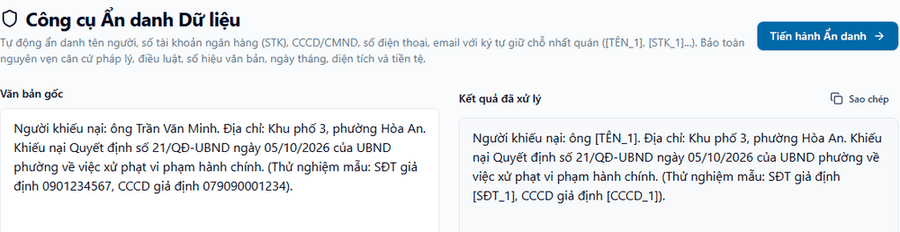
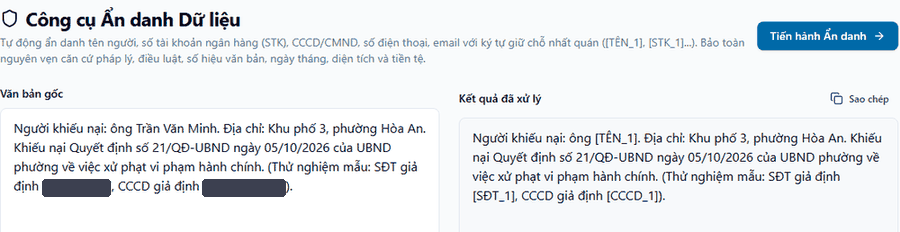
Bản 5.4b-b4: thêm ngày nghỉ 24/11/2026, chặn ngày ngoài khoảng và ngày nghỉ, thu hẹp câu Khóa trích dẫn, che số trong ảnh, sửa hộp Xin biết trước

diff --git a/index.html b/index.html
@@ -83,7 +83,7 @@
 <div class="wrap">
 <div class="sec__head">
 <h2 id="ho-so-h" class="h2">Theo một hồ sơ, từ lúc nhận đến lúc đóng</h2>
-<p class="lede">Ông Minh không đồng ý với một quyết định xử phạt của phường và gửi đơn khiếu nại. Chị Lan là cán bộ văn phòng. Cả hai là nhân vật minh họa, hồ sơ là hồ sơ mẫu.</p>
+<p class="lede">Ông Minh không đồng ý với một quyết định của phường và gửi đơn khiếu nại. Chị Lan là cán bộ văn phòng. Cả hai là nhân vật minh họa, hồ sơ là hồ sơ mẫu.</p>
 </div>
 <ol class="scenes">
 <li class="scene">
@@ -97,21 +97,23 @@
 <span class="scene__no">2</span>
 <div class="scene__story">
 <h3 class="h3">Theo dõi</h3>
-<p>Ô thời hạn đếm 07 ngày làm việc, ghi rõ ngày nào được tính, ngày nào không và vì sao. Mỗi bước có người phụ trách và hiện trong hàng đợi việc của người đó.</p>
+<p>Ô thời hạn đếm 07 ngày làm việc, ghi rõ ngày nào được tính, ngày nào không và vì sao. Mỗi nhiệm vụ có người phụ trách và hiện trong hàng đợi việc của người đó.</p>
+<p class="note"><span class="tag tag--warn">Lưu ý</span> Bộ đếm trong phần mềm chưa nạp ngày nghỉ 24/11/2026 và lịch nghỉ lễ năm 2027, nên hạn đi qua những ngày này đang lệch. Ô đếm thử ở mục dưới đã nạp đủ.</p>
 </div>
 </li>
 <li class="scene">
 <span class="scene__no">3</span>
 <div class="scene__story">
 <h3 class="h3">Trước khi ký</h3>
-<p>Từng trích dẫn trong dự thảo được đưa vào Khóa trích dẫn để đối chiếu với kho văn bản. Dự thảo đi qua kiểm soát, rồi người có thẩm quyền ký.</p>
+<p>Cán bộ kiểm tra căn cứ có thể đưa từng trích dẫn vào Khóa trích dẫn để đối chiếu với kho văn bản. Dự thảo đi qua kiểm soát, rồi người có thẩm quyền ký.</p>
+<p class="note"><span class="tag tag--warn">Lưu ý</span> Khóa trích dẫn hiện là công cụ dùng riêng, chưa gắn vào bước thẩm tra, nên phần mềm chưa bắt buộc kiểm mọi trích dẫn trước khi ký.</p>
 </div>
 </li>
 </ol>
 
 <figure class="shot" aria-labelledby="shot1-cap">
-<a class="shot__link" href="assets/img/han-thu-ly-ho-so-mau.png" data-zoom aria-label="Xem cỡ lớn ảnh khung thời hạn của hồ sơ mẫu"><img src="assets/img/han-thu-ly-ho-so-mau.png" width="900" height="410" fetchpriority="high" alt="Ảnh chụp bản thử nghiệm: khung thời hạn của hồ sơ mẫu. Phần mềm ghi hạn xem xét thụ lý dự kiến là 25/11/2026, nêu căn cứ là khoản 1 Điều 27 Luật Khiếu nại, liệt kê bảy ngày được tính và hai ngày cuối tuần không được tính."></a>
-<figcaption id="shot1-cap">Ảnh chụp bản thử nghiệm ngày 21/11/2026, hồ sơ mẫu, dữ liệu giả định. Phần mềm tự ghi đây là ngày <strong>dự kiến</strong>, chưa phải hạn đã xác lập chính thức, và nói rõ thời hạn giải quyết sau khi thụ lý là giai đoạn khác. Nhấn vào ảnh để xem cỡ lớn.</figcaption>
+<a class="shot__link" href="assets/img/han-thu-ly-ho-so-mau.png" data-zoom aria-label="Xem cỡ lớn ảnh khung thời hạn của hồ sơ mẫu"><img src="assets/img/han-thu-ly-ho-so-mau.png" width="900" height="410" fetchpriority="high" alt="Ảnh chụp bản thử nghiệm: khung thời hạn của hồ sơ mẫu nhận ngày 16/11/2026. Phần mềm ghi hạn xem xét thụ lý dự kiến là 25/11/2026, nêu căn cứ là khoản 1 Điều 27 Luật Khiếu nại, liệt kê bảy ngày được tính và hai ngày cuối tuần không được tính; ngày 24/11/2026 bị tính nhầm là ngày làm việc."></a>
+<figcaption id="shot1-cap">Ảnh chụp bản thử nghiệm ngày 21/11/2026, hồ sơ mẫu, dữ liệu giả định. Phần mềm tự ghi đây là ngày <strong>dự kiến</strong>, chưa phải hạn đã xác lập chính thức, và nói rõ thời hạn giải quyết sau khi thụ lý là giai đoạn khác. <strong>Kết quả trong ảnh còn sai một ngày:</strong> phần mềm chưa nạp ngày nghỉ 24/11/2026 (Ngày Văn hóa Việt Nam) nên ghi 25/11/2026; tính đúng là 26/11/2026. Nhấn vào ảnh để xem cỡ lớn.</figcaption>
 </figure>
 </div>
 </section>
@@ -128,6 +130,7 @@
 <div class="paths__two">
 <article class="path path--new">
 <h3 class="h3">Chưa có: việc mới</h3>
+<p class="small">Trong phần mềm gọi là Luồng 2.</p>
 <p>Ví dụ: phản ánh, kiến nghị về việc dân sinh mới phát sinh.</p>
 <ul>
 <li>Phòng chuyên môn chủ trì về chuyên môn.</li>
@@ -136,6 +139,7 @@
 </article>
 <article class="path path--old">
 <h3 class="h3">Có rồi: việc đã có văn bản trước đó</h3>
+<p class="small">Trong phần mềm gọi là Luồng 1.</p>
 <p>Ví dụ: người dân không đồng ý với văn bản đã ban hành, đề nghị xem xét lại hoặc hủy bỏ.</p>
 <ul>
 <li>Văn phòng chủ trì toàn bộ hồ sơ.</li>
@@ -143,11 +147,11 @@
 </ul>
 </article>
 </div>
-<p id="duong-cap" class="note paths__cap">Mô tả theo quy chế của một phường. Pháp Dẫn hiển thị hai quy trình để cán bộ chọn; phần mềm không tự xác định quy trình.</p>
+<p id="duong-cap" class="note paths__cap">Mô tả theo quy chế của một phường. Theo quy chế ấy, chỉ tính văn bản do chính cơ quan đó ban hành về cùng việc, ví dụ quyết định, thông báo kết quả, thông báo đang giải quyết hoặc không giải quyết; phiếu chuyển, biên bản hay văn bản của cơ quan khác thì không tính. Cán bộ tiếp nhận quyết định theo quy chế của đơn vị. Pháp Dẫn hiển thị hai quy trình để cán bộ chọn; phần mềm không tự xác định quy trình.</p>
 </div>
 
 <div class="gate" aria-label="Thứ tự kiểm soát trước khi ký">
-<p class="gate__h3">Quy chế đặt ba vai riêng: kiểm lần một, kiểm lần hai, ký</p>
+<p class="gate__h3">Theo quy chế của đơn vị: ba vai riêng, kiểm lần một, kiểm lần hai, ký</p>
 <ol class="gate__steps">
 <li><span class="gate__n">Lớp 1</span> Chánh Văn phòng kiểm nội dung</li>
 <li><span class="gate__n">Lớp 2</span> Lãnh đạo phụ trách kiểm lần hai</li>
@@ -167,14 +171,17 @@
 </div>
 
 <div class="dem" data-dem>
+<p class="dem__note small">Ngày nhận là ngày ghi trên phiếu tiếp nhận của cơ quan, không phải ngày bạn gửi. Ô này minh họa cách đếm; hạn thật của một đơn do cơ quan thụ lý xác định.</p>
 <label class="dem__lb" for="ngay-nhan">Ngày nhận đơn</label>
 <input class="dem__in" type="date" id="ngay-nhan" value="2026-11-16" min="2026-11-01" max="2027-03-04">
-<p class="dem__note small">Chọn trong khoảng 01/11/2026 đến 04/3/2027, là khoảng đã đối chiếu lịch nghỉ lễ.</p>
+<p class="dem__note small">Chọn một ngày làm việc trong khoảng 01/11/2026 đến 04/3/2027, là khoảng đã đối chiếu lịch nghỉ lễ. Ngoài khoảng này hoặc chọn ngày nghỉ, trang sẽ báo và không tính.</p>
 <div class="dem__cal" data-cal aria-live="polite"></div>
-<p class="dem__kq" data-kq></p>
+<p class="dem__kq" data-kq aria-live="polite"></p>
 <p class="legend"><span><i class="i-recv"></i> Ngày nhận, không tính</span><span><i class="i-count"></i> Ngày làm việc được tính</span><span><i class="i-skip"></i> Thứ bảy, chủ nhật</span><span><i class="i-off"></i> Nghỉ lễ</span><span><i class="i-due"></i> Ngày cuối của thời hạn</span></p>
-<p class="note">Căn cứ: khoản 1 Điều 27 Luật Khiếu nại số 02/2011/QH13, được sửa đổi, bổ sung bởi Luật số 136/2025/QH15 có hiệu lực từ 01/7/2026. Lịch nghỉ lễ theo Thông báo số 11483/TB-BNV ngày 09/10/2026 của Bộ Nội vụ và Điều 112 Bộ luật Lao động 2019; đã đối chiếu ngày 21/11/2026. Ngày nhận là ngày ghi trên phiếu tiếp nhận của cơ quan; đơn gửi vào ngày nghỉ được ghi nhận vào ngày làm việc kế tiếp.</p>
-<p class="note note--where"><span class="tag tag--plain">Minh họa trên trang web</span> Ô đếm này chạy ngay trong máy của bạn, không gửi dữ liệu đi đâu. <span class="tag tag--ok">Trong phần mềm</span> đã có đếm hạn và liệt kê lý do từng ngày. <span class="tag tag--warn">Đang hoàn thiện</span> lịch nghỉ lễ năm 2027 chưa được nạp vào phần mềm.</p>
+<p class="note">Căn cứ: khoản 1 Điều 27 Luật Khiếu nại số 02/2011/QH13, được sửa đổi, bổ sung bởi Luật số 136/2025/QH15 có hiệu lực từ 01/7/2026. Ngày nghỉ: Điều 112 Bộ luật Lao động số 45/2019/QH14; khoản 1 Điều 2 Nghị quyết số 28/2026/QH16 (Ngày Văn hóa Việt Nam 24/11, năm 2026 nghỉ đúng thứ ba 24/11, không hoán đổi); Thông báo số 11483/TB-BNV ngày 09/10/2026 của Bộ Nội vụ (Tết 2027). Đã đối chiếu ngày 22/11/2026.</p>
+<p class="note note--where"><span class="tag tag--plain">Minh họa trên trang web</span> Ô đếm này là minh họa trên trang web, chạy ngay trong máy của bạn, không gửi dữ liệu đi đâu.</p>
+<p class="note note--where"><span class="tag tag--ok">Trong phần mềm</span> Đã có đếm hạn và liệt kê lý do từng ngày.</p>
+<p class="note note--where"><span class="tag tag--warn">Lưu ý</span> Ngày nghỉ 24/11/2026 và lịch nghỉ lễ năm 2027 chưa được nạp vào phần mềm, hiện chỉ có trong ô đếm này.</p>
 </div>
 </div>
 </section>
@@ -196,15 +203,15 @@
 <p class="tests__h">Thử đoán trước khi xem kết quả</p>
 
 <details class="tcd">
-<summary>Điều 24 Luật Tố cáo 2018 — xử lý ban đầu thông tin tố cáo trong 07 ngày làm việc</summary>
+<summary>Điều 24 Luật Tố cáo số 25/2018/QH14 — xử lý ban đầu thông tin tố cáo trong 07 ngày làm việc</summary>
 <div class="tcd__in">
-<p class="tcd__kq"><span class="tag tag--ok">Đã khóa căn cứ</span></p>
+<p class="tcd__kq"><span class="tag tag--ok">Đã khóa căn cứ (trên kho dữ liệu thử)</span></p>
 <p>Điều này có thật và có trong kho dữ liệu thử, nên phần mềm xác nhận. Điều 24 Luật Tố cáo số 25/2018/QH14 còn cho phép kéo dài nhưng không quá 10 ngày khi phải xác minh ở nhiều nơi.</p>
 </div>
 </details>
 
 <details class="tcd">
-<summary>Điều 328 Bộ luật Dân sự 2015 — đặt cọc</summary>
+<summary>Điều 328 Bộ luật Dân sự số 91/2015/QH13 — đặt cọc</summary>
 <div class="tcd__in">
 <p class="tcd__kq"><span class="tag tag--out">Ngoài kho căn cứ, không xác nhận</span></p>
 <p>Điều này có thật ngoài đời. Nhưng Bộ luật Dân sự không thuộc kho văn bản đang dùng cho việc này, nên phần mềm không đối chiếu được và không xác nhận. Không xác nhận không có nghĩa là điều luật không tồn tại.</p>
@@ -212,7 +219,7 @@
 </details>
 
 <details class="tcd">
-<summary>Điều 300 Luật Đất đai 2024</summary>
+<summary>Điều 300 Luật Đất đai số 31/2024/QH15</summary>
 <div class="tcd__in">
 <p class="tcd__kq"><span class="tag tag--plain">Không tìm thấy điều khoản, không xác nhận</span></p>
 <p>Luật Đất đai số 31/2024/QH15 chỉ có 260 điều, nên không có Điều 300. Văn bản thì có trong kho, còn điều luật thì không. Đây là kiểu sai mà AI hay mắc: ghép một tên luật có thật với một số điều không có.</p>
@@ -220,7 +227,7 @@
 </details>
 
 <details class="tcd">
-<summary>Điều 27 Luật Khiếu nại: thụ lý trong 10 ngày</summary>
+<summary>Điều 27 Luật Khiếu nại số 02/2011/QH13: thụ lý trong 10 ngày</summary>
 <div class="tcd__in">
 <p class="tcd__kq"><span class="tag tag--warn">Nội dung thuộc phiên bản cũ</span></p>
 <p>Điều 27 có thật, nhưng con số 10 ngày là của bản trước. Từ 01/7/2026, Luật số 136/2025/QH15 sửa thành 07 ngày làm việc. Một trích dẫn đúng tên điều vẫn có thể sai nội dung nếu lấy theo bản cũ.</p>
@@ -235,27 +242,27 @@
 <section id="khac-chatbot" class="sec" aria-labelledby="khac-h">
 <div class="wrap">
 <div class="sec__head">
-<h2 id="khac-h" class="h2">Ba điều Pháp Dẫn làm khác một trợ lý AI thông thường</h2>
-<p class="lede">Một trợ lý AI trả lời trôi chảy nhưng không cho biết câu trả lời dựa vào đâu, và không chịu trách nhiệm. Ba điều dưới đây là chỗ khác biệt, và đều chụp được trên bản thử nghiệm.</p>
+<h2 id="khac-h" class="h2">Ba điều Pháp Dẫn làm khác một chatbot hỏi đáp chung</h2>
+<p class="lede">So với một chatbot AI hỏi đáp chung, không gắn với kho văn bản và quy trình của cơ quan. Ba điều dưới đây chụp trên bản thử nghiệm, chạy trên kho dữ liệu thử; kho văn bản chính thức đang được nạp.</p>
 </div>
 
 <ul class="mods">
 <li class="mod">
 <h3 class="h3">Căn cứ bịa ra bị chặn lại</h3>
-<p>AI vẫn có thể nghĩ ra một điều luật không tồn tại. Chỗ khác là ở đây: căn cứ do AI gợi ý mà không có trong kho sẽ bị ghi "chưa xác nhận" và không lọt vào hồ sơ. Khi không tìm được văn bản khớp, phần mềm để trống và ghi rõ nó "tuyệt đối không tự tạo trích dẫn pháp lý giả mạo".</p>
-<figure class="mod__fig"><img src="assets/img/khong-bia-can-cu.png" width="900" height="265" alt="Ảnh chụp bản thử nghiệm: khối Căn cứ pháp luật liên quan báo chưa có văn bản quy phạm pháp luật liên kết trực tiếp, và ghi rằng hệ thống tuyệt đối không tự tạo trích dẫn pháp lý giả mạo."></figure>
+<p>AI vẫn có thể nghĩ ra một điều luật không tồn tại. Chỗ khác là ở đây: khi cán bộ đưa một căn cứ vào Khóa trích dẫn, căn cứ không có trong kho bị ghi "chưa xác nhận" thay vì được coi là đúng. Khi hồ sơ chưa có văn bản khớp, khối căn cứ để trống thay vì tự điền. Công cụ chưa gắn vào bước thẩm tra, nên chưa tự chặn một dự thảo có căn cứ chưa xác nhận.</p>
+<figure class="mod__fig"><img src="assets/img/khong-bia-can-cu.png" width="900" height="265" alt="Ảnh chụp bản thử nghiệm: khối Căn cứ pháp luật liên quan báo chưa có văn bản quy phạm pháp luật liên kết trực tiếp, và một dòng nguyên tắc hiển thị trên giao diện."><figcaption>Ảnh chụp bản thử nghiệm: khối căn cứ để trống khi chưa có văn bản khớp. Dòng chữ trong ảnh là nguyên tắc ghi trên giao diện, không phải kết quả kiểm định.</figcaption></figure>
 <span class="tag tag--ok">Đã có trên bản thử nghiệm</span>
 </li>
 <li class="mod">
 <h3 class="h3">Ghi rõ thứ nào lấy từ đâu</h3>
 <p>Mỗi lần đổi trạng thái hồ sơ đều ghi người đổi, giờ đổi và căn cứ. Mỗi lần kiểm một trích dẫn đều ghi rõ có trong kho hay ngoài kho. Ngoài ra, bảng truy xuất nguồn gốc xếp bốn hạng mục của hồ sơ (thông tin tiếp nhận và thụ lý, tài liệu và hồ sơ đính kèm, đề xuất hành động nghiệp vụ tiếp theo, cơ sở pháp lý liên quan), mỗi hạng mục ghi nguồn, người ghi, thời điểm và tính chất pháp lý.</p>
-<figure class="mod__fig"><img src="assets/img/truy-xuat-nguon-goc.png" width="900" height="337" alt="Ảnh chụp bản thử nghiệm: bảng truy xuất nguồn gốc dữ liệu, mỗi dòng ghi hạng mục thông tin, nguồn dữ liệu thực tế, chủ thể ghi nhận, thời điểm và tính chất pháp lý."></figure>
+<figure class="mod__fig"><img src="assets/img/truy-xuat-nguon-goc.png" width="900" height="337" alt="Ảnh chụp bản thử nghiệm: bảng truy xuất nguồn gốc dữ liệu, mỗi dòng ghi hạng mục thông tin, nguồn dữ liệu thực tế, chủ thể ghi nhận, thời điểm và tính chất pháp lý."><figcaption>Ảnh chụp bản thử nghiệm: bảng truy xuất nguồn gốc. Một số ô bị giao diện rút gọn bằng dấu ba chấm.</figcaption></figure>
 <span class="tag tag--ok">Đã có trên bản thử nghiệm</span>
 </li>
 <li class="mod">
 <h3 class="h3">Máy không tự quyết thay người</h3>
 <p>Phần mềm gợi ý việc tiếp theo và nói rõ gợi ý ấy dựa vào căn cứ nào, nhưng ghi thẳng là "hệ thống không tự ý chuyển trạng thái hoặc đưa ra kết luận pháp lý tự động". Trợ lý AI chỉ hỗ trợ tóm tắt và gợi ý phân loại, không có giá trị pháp lý tự động; cán bộ thụ lý chịu trách nhiệm về kết quả.</p>
-<figure class="mod__fig"><img src="assets/img/hanh-dong-tat-dinh.png" width="900" height="269" alt="Ảnh chụp bản thử nghiệm: khối hành động nghiệp vụ tiếp theo, mỗi gợi ý kèm một dòng căn cứ đề xuất, và câu hệ thống không tự ý chuyển trạng thái hoặc đưa ra kết luận pháp lý tự động."></figure>
+<figure class="mod__fig"><img src="assets/img/hanh-dong-tat-dinh.png" width="900" height="269" alt="Ảnh chụp bản thử nghiệm: khối hành động nghiệp vụ tiếp theo, mỗi gợi ý kèm một dòng căn cứ đề xuất, và câu hệ thống không tự ý chuyển trạng thái hoặc đưa ra kết luận pháp lý tự động."><figcaption>Ảnh chụp bản thử nghiệm: gợi ý việc tiếp theo, mỗi gợi ý kèm căn cứ đề xuất.</figcaption></figure>
 <span class="tag tag--ok">Đã có trên bản thử nghiệm</span>
 </li>
 </ul>
@@ -278,12 +285,12 @@
 
 <ul class="rows">
 <li class="row">
-<h3 class="h3">Đếm hạn và nêu lý do từng ngày <span class="tag tag--ok">Đã có</span></h3>
-<p>Đếm 07 ngày làm việc, liệt kê ngày được tính và ngày không tính kèm lý do, và tự kiểm lại kết quả. Lịch nghỉ lễ năm 2027 chưa được nạp.</p>
+<h3 class="h3">Đếm hạn và nêu lý do từng ngày <span class="tag tag--warn">Đang hoàn thiện</span></h3>
+<p>Đếm 07 ngày làm việc, liệt kê ngày được tính và ngày không tính kèm lý do, và tự kiểm lại kết quả. Chưa nạp ngày nghỉ 24/11/2026 và lịch nghỉ lễ năm 2027, nên hạn đi qua những ngày này đang lệch.</p>
 </li>
 <li class="row">
 <h3 class="h3">Hai quy trình xử lý đơn <span class="tag tag--ok">Đã có</span></h3>
-<p>Hồ sơ mẫu đã đi trọn quy trình thứ hai, từ trích lục hồ sơ cũ đến đóng hồ sơ. Mỗi bước có vai trò phụ trách riêng.</p>
+<p>Hồ sơ mẫu đã đi trọn quy trình cho việc đã có văn bản trước đó (phần mềm gọi là Luồng 1), từ trích lục hồ sơ cũ đến đóng hồ sơ. Mỗi bước có vai trò phụ trách riêng.</p>
 </li>
 <li class="row">
 <h3 class="h3">Hàng đợi việc theo vai trò <span class="tag tag--ok">Đã có</span></h3>
@@ -314,10 +321,10 @@
 <details class="more">
 <summary>Xem ảnh chụp bốn màn hình</summary>
 <div class="more__in">
-<figure class="shot"><img src="assets/img/che-thong-tin.png" width="900" height="232" alt="Ảnh chụp bản thử nghiệm: công cụ che thông tin, cột trái là văn bản gốc có tên và số căn cước, cột phải là kết quả đã thay bằng ký hiệu."><figcaption>Che thông tin cá nhân trước khi đưa nội dung cho AI đọc.</figcaption></figure>
-<figure class="shot"><img src="assets/img/lich-su-ho-so.png" width="772" height="690" alt="Ảnh chụp bản thử nghiệm: lịch sử xử lý của hồ sơ mẫu, mỗi dòng ghi việc đã làm, thời điểm và người làm; dòng đổi trạng thái ghi thêm căn cứ."><figcaption>Mỗi lần đổi trạng thái ghi người, giờ và căn cứ.</figcaption></figure>
-<figure class="shot"><img src="assets/img/hang-doi-viec.png" width="900" height="490" alt="Ảnh chụp bản thử nghiệm: hàng đợi nhiệm vụ, một dòng việc kèm bước xử lý, quy trình, vai trò phân công, người nhận và trạng thái."><figcaption>Hàng đợi việc của một cán bộ.</figcaption></figure>
-<figure class="shot"><img src="assets/img/quy-trinh-hoan-tat.png" width="900" height="482" alt="Ảnh chụp bản thử nghiệm: màn hình quy trình của hồ sơ mẫu ở trạng thái hoàn tất, kèm danh sách các bước đã đi qua."><figcaption>Hồ sơ mẫu sau khi đi hết quy trình.</figcaption></figure>
+<figure class="shot"><img src="assets/img/che-thong-tin.png" width="900" height="232" alt="Ảnh chụp bản thử nghiệm: công cụ che thông tin, cột trái là văn bản gốc, cột phải là kết quả đã thay tên, số điện thoại, số căn cước bằng ký hiệu; địa chỉ chưa được che."><figcaption>Che thông tin cá nhân trước khi đưa nội dung cho AI đọc. Tên, số điện thoại và số căn cước trong ảnh là dữ liệu giả định; trang web đã che thêm hai dãy số ở cột trái. Địa chỉ chưa được phần mềm che.</figcaption></figure>
+<figure class="shot"><img src="assets/img/lich-su-ho-so.png" width="772" height="690" alt="Ảnh chụp bản thử nghiệm: lịch sử xử lý của hồ sơ mẫu, mỗi dòng ghi việc đã làm, thời điểm và người làm; dòng đổi trạng thái ghi thêm căn cứ."><figcaption>Dòng đổi trạng thái ghi người, giờ và căn cứ; các dòng thêm ghi chú không hiện nội dung ghi chú.</figcaption></figure>
+<figure class="shot"><img src="assets/img/hang-doi-viec.png" width="900" height="490" alt="Ảnh chụp bản thử nghiệm: hàng đợi nhiệm vụ, một dòng việc kèm bước xử lý, quy trình, vai trò phân công, người nhận và trạng thái."><figcaption>Hàng đợi việc của một cán bộ. Bảng nhiều cột, nên mở ảnh cỡ lớn để đọc.</figcaption></figure>
+<figure class="shot"><img src="assets/img/quy-trinh-hoan-tat.png" width="900" height="482" alt="Ảnh chụp bản thử nghiệm: màn hình quy trình của hồ sơ mẫu ở trạng thái hoàn tất, kèm danh sách các bước đã đi qua."><figcaption>Hồ sơ mẫu sau khi đi hết quy trình Luồng 1. Ảnh chỉ thấy phần đầu danh sách bước.</figcaption></figure>
 <p class="note">Bốn ảnh chụp bản thử nghiệm ngày 21/11/2026, dữ liệu giả định, đã che tên tài khoản.</p>
 </div>
 </details>
@@ -337,7 +344,7 @@
 </div>
 <div>
 <dt>Hạn thụ lý khiếu nại còn 07 ngày làm việc</dt>
-<dd>Luật cũ quy định 10 ngày; luật mới quy định 07 ngày làm việc, áp dụng từ 01/7/2026.</dd>
+<dd>Luật cũ quy định 10 ngày (ngày lịch); luật mới quy định 07 ngày làm việc, áp dụng từ 01/7/2026.</dd>
 <dd class="facts__src">Khoản 1 Điều 27 Luật Khiếu nại số 02/2011/QH13, sửa đổi, bổ sung bởi Luật số 136/2025/QH15.</dd>
 </div>
 <div>
@@ -358,7 +365,7 @@
 <div class="wrap proof">
 <div class="proof__text">
 <h2 id="bc-h" class="h2">Số liệu ghi nhận tại một địa phương</h2>
-<p class="lede">Từ 06/4/2026, một phường chia đơn thành hai quy trình như trên. Tỉ lệ đơn trễ hạn hoặc còn tồn đọng giảm.</p>
+<p class="lede">Từ 06/4/2026, một phường chia đơn thành hai quy trình như trên, khi chưa dùng phần mềm. Phường ghi nhận hai con số dưới đây; đây không phải phép đo hiệu quả của Pháp Dẫn.</p>
 </div>
 <div class="proof__figs">
 <dl class="proof__nums">
@@ -407,7 +414,7 @@
 </details>
 <details>
 <summary>Phần mềm đã dùng cho hồ sơ thật chưa?</summary>
-<p>Chưa. Đang chạy thử với hồ sơ mẫu và dữ liệu giả định. Chính phần mềm cũng hiện dòng cảnh báo chỉ dùng dữ liệu giả hoặc đã ẩn danh.</p>
+<p>Chưa. Đang chạy thử với hồ sơ mẫu và dữ liệu giả định.</p>
 </details>
 <details>
 <summary>Khóa trích dẫn khác gì một công cụ tìm kiếm?</summary>
@@ -419,11 +426,11 @@
 </details>
 <details>
 <summary>Dữ liệu của đơn vị có bị trộn lẫn không?</summary>
-<p>Dữ liệu tách theo đơn vị, quyền xem và sửa theo vai trò. Thông tin cá nhân được che trước khi đưa cho AI đọc; phần che địa chỉ đang được bổ sung.</p>
+<p>Theo thiết kế, dữ liệu tách theo đơn vị, quyền xem và sửa theo vai trò. Bộ che thông tin che được tên, số điện thoại, số căn cước, email và số tài khoản trước khi đưa cho AI đọc; chưa che địa chỉ. Hiện một tài khoản vẫn bấm được cả bước duyệt lẫn bước ban hành; việc chặn này đang được làm.</p>
 </details>
 <details>
 <summary>Muốn xem thử thì làm thế nào?</summary>
-<p>Gửi thư qua trang Liên hệ, nêu hai hoặc ba khung giờ thuận tiện. Buổi xem thử khoảng 20 phút, chạy trên hồ sơ mẫu.</p>
+<p>Gửi thư qua <a href="lien-he.html">trang Liên hệ</a>, nêu hai hoặc ba khung giờ thuận tiện. Buổi xem thử khoảng 20 phút, chạy trên hồ sơ mẫu.</p>
 </details>
 </div>
 </div>
@@ -433,7 +440,7 @@
 <div class="wrap cta">
 <div class="cta__text">
 <h2 id="pilot-h" class="h2">Muốn xem thử?</h2>
-<p class="lede">Hai mươi phút, chạy trên hồ sơ mẫu, có thể xem trên máy tính hoặc điện thoại.</p>
+<p class="lede">Hai mươi phút, chạy trên hồ sơ mẫu, có thể xem trên máy tính hoặc điện thoại. Buổi xem thử dành cho cán bộ xã, phường; không phải nơi nộp hay hỏi về đơn.</p>
 </div>
 <div class="biet">
 <p class="biet__h">Xin biết trước</p>
@@ -486,8 +493,8 @@ document.addEventListener('keydown',function(e){if(e.key==='Escape'&&m.open){m.o
 var w=document.querySelector('[data-dem]');if(!w)return;
 var inp=w.querySelector('.dem__in'),cal=w.querySelector('[data-cal]'),kq=w.querySelector('[data-kq]');
 if(!inp||!cal||!kq)return;
-/* Ngày nghỉ lễ theo Thông báo 11483/TB-BNV ngày 09/10/2026; khoảng đã đối chiếu: 01/11/2026 - 15/03/2027 */
-var LE={'2027-01-01':'Tết Dương lịch','2027-02-04':'Tết Âm lịch','2027-02-05':'Tết Âm lịch','2027-02-06':'Tết Âm lịch','2027-02-07':'Tết Âm lịch','2027-02-08':'Tết Âm lịch','2027-02-09':'Tết Âm lịch','2027-02-10':'Tết Âm lịch'};
+/* Ngày nghỉ: NQ 28/2026/QH16 (24/11/2026, không hoán đổi); TB 11483/TB-BNV ngày 09/10/2026 (Tết 2027); khoảng đã đối chiếu: 01/11/2026 - 15/03/2027 */
+var LE={'2026-11-24':'Ngày Văn hóa Việt Nam','2027-01-01':'Tết Dương lịch','2027-02-04':'Tết Âm lịch','2027-02-05':'Tết Âm lịch','2027-02-06':'Tết Âm lịch','2027-02-07':'Tết Âm lịch','2027-02-08':'Tết Âm lịch','2027-02-09':'Tết Âm lịch','2027-02-10':'Tết Âm lịch'};
 var THU=['chủ nhật','thứ hai','thứ ba','thứ tư','thứ năm','thứ sáu','thứ bảy'];
 function p(s){var a=s.split('-');return new Date(Date.UTC(+a[0],+a[1]-1,+a[2]));}
 function k(d){var m=d.getUTCMonth()+1,n=d.getUTCDate();return d.getUTCFullYear()+'-'+(m<10?'0':'')+m+'-'+(n<10?'0':'')+n;}
@@ -498,7 +505,8 @@ function ve(){
  cal.textContent='';kq.textContent='';
  var s=inp.value;if(!s||!/^\d{4}-\d{2}-\d{2}$/.test(s))return;
  var g=p(s);if(isNaN(g.getTime()))return;
- if(inp.min&&s<inp.min){g=p(inp.min);}if(inp.max&&s>inp.max){g=p(inp.max);}
+ if((inp.min&&s<inp.min)||(inp.max&&s>inp.max)){kq.textContent='Ngày '+dmy(g)+' nằm ngoài khoảng đã đối chiếu lịch nghỉ lễ (01/11/2026 đến 04/03/2027). Trang không tính hạn cho ngày này.';return;}
+ if(nghi(g)){kq.textContent='Ngày '+dmy(g)+' là '+(LE[k(g)]?'ngày nghỉ lễ ('+LE[k(g)]+')':THU[g.getUTCDay()])+', không phải ngày làm việc. Hãy chọn đúng ngày ghi trên phiếu tiếp nhận của cơ quan; trang không tự đổi sang ngày khác.';return;}
  var r=new Date(g);
  var ds=[{d:new Date(r),t:'recv',nh:'Ngày nhận'}],cur=new Date(r),dem=0;
  while(dem<7){cur=them(cur,1);

diff --git a/chinh-sach-du-lieu.html b/chinh-sach-du-lieu.html
@@ -126,8 +126,8 @@ document.addEventListener('keydown',function(e){if(e.key==='Escape'&&m.open){m.o
 var w=document.querySelector('[data-dem]');if(!w)return;
 var inp=w.querySelector('.dem__in'),cal=w.querySelector('[data-cal]'),kq=w.querySelector('[data-kq]');
 if(!inp||!cal||!kq)return;
-/* Ngày nghỉ lễ theo Thông báo 11483/TB-BNV ngày 09/10/2026; khoảng đã đối chiếu: 01/11/2026 - 15/03/2027 */
-var LE={'2027-01-01':'Tết Dương lịch','2027-02-04':'Tết Âm lịch','2027-02-05':'Tết Âm lịch','2027-02-06':'Tết Âm lịch','2027-02-07':'Tết Âm lịch','2027-02-08':'Tết Âm lịch','2027-02-09':'Tết Âm lịch','2027-02-10':'Tết Âm lịch'};
+/* Ngày nghỉ: NQ 28/2026/QH16 (24/11/2026, không hoán đổi); TB 11483/TB-BNV ngày 09/10/2026 (Tết 2027); khoảng đã đối chiếu: 01/11/2026 - 15/03/2027 */
+var LE={'2026-11-24':'Ngày Văn hóa Việt Nam','2027-01-01':'Tết Dương lịch','2027-02-04':'Tết Âm lịch','2027-02-05':'Tết Âm lịch','2027-02-06':'Tết Âm lịch','2027-02-07':'Tết Âm lịch','2027-02-08':'Tết Âm lịch','2027-02-09':'Tết Âm lịch','2027-02-10':'Tết Âm lịch'};
 var THU=['chủ nhật','thứ hai','thứ ba','thứ tư','thứ năm','thứ sáu','thứ bảy'];
 function p(s){var a=s.split('-');return new Date(Date.UTC(+a[0],+a[1]-1,+a[2]));}
 function k(d){var m=d.getUTCMonth()+1,n=d.getUTCDate();return d.getUTCFullYear()+'-'+(m<10?'0':'')+m+'-'+(n<10?'0':'')+n;}
@@ -138,7 +138,8 @@ function ve(){
  cal.textContent='';kq.textContent='';
  var s=inp.value;if(!s||!/^\d{4}-\d{2}-\d{2}$/.test(s))return;
  var g=p(s);if(isNaN(g.getTime()))return;
- if(inp.min&&s<inp.min){g=p(inp.min);}if(inp.max&&s>inp.max){g=p(inp.max);}
+ if((inp.min&&s<inp.min)||(inp.max&&s>inp.max)){kq.textContent='Ngày '+dmy(g)+' nằm ngoài khoảng đã đối chiếu lịch nghỉ lễ (01/11/2026 đến 04/03/2027). Trang không tính hạn cho ngày này.';return;}
+ if(nghi(g)){kq.textContent='Ngày '+dmy(g)+' là '+(LE[k(g)]?'ngày nghỉ lễ ('+LE[k(g)]+')':THU[g.getUTCDay()])+', không phải ngày làm việc. Hãy chọn đúng ngày ghi trên phiếu tiếp nhận của cơ quan; trang không tự đổi sang ngày khác.';return;}
  var r=new Date(g);
  var ds=[{d:new Date(r),t:'recv',nh:'Ngày nhận'}],cur=new Date(r),dem=0;
  while(dem<7){cur=them(cur,1);

diff --git a/lien-he.html b/lien-he.html
@@ -138,8 +138,8 @@ document.addEventListener('keydown',function(e){if(e.key==='Escape'&&m.open){m.o
 var w=document.querySelector('[data-dem]');if(!w)return;
 var inp=w.querySelector('.dem__in'),cal=w.querySelector('[data-cal]'),kq=w.querySelector('[data-kq]');
 if(!inp||!cal||!kq)return;
-/* Ngày nghỉ lễ theo Thông báo 11483/TB-BNV ngày 09/10/2026; khoảng đã đối chiếu: 01/11/2026 - 15/03/2027 */
-var LE={'2027-01-01':'Tết Dương lịch','2027-02-04':'Tết Âm lịch','2027-02-05':'Tết Âm lịch','2027-02-06':'Tết Âm lịch','2027-02-07':'Tết Âm lịch','2027-02-08':'Tết Âm lịch','2027-02-09':'Tết Âm lịch','2027-02-10':'Tết Âm lịch'};
+/* Ngày nghỉ: NQ 28/2026/QH16 (24/11/2026, không hoán đổi); TB 11483/TB-BNV ngày 09/10/2026 (Tết 2027); khoảng đã đối chiếu: 01/11/2026 - 15/03/2027 */
+var LE={'2026-11-24':'Ngày Văn hóa Việt Nam','2027-01-01':'Tết Dương lịch','2027-02-04':'Tết Âm lịch','2027-02-05':'Tết Âm lịch','2027-02-06':'Tết Âm lịch','2027-02-07':'Tết Âm lịch','2027-02-08':'Tết Âm lịch','2027-02-09':'Tết Âm lịch','2027-02-10':'Tết Âm lịch'};
 var THU=['chủ nhật','thứ hai','thứ ba','thứ tư','thứ năm','thứ sáu','thứ bảy'];
 function p(s){var a=s.split('-');return new Date(Date.UTC(+a[0],+a[1]-1,+a[2]));}
 function k(d){var m=d.getUTCMonth()+1,n=d.getUTCDate();return d.getUTCFullYear()+'-'+(m<10?'0':'')+m+'-'+(n<10?'0':'')+n;}
@@ -150,7 +150,8 @@ function ve(){
  cal.textContent='';kq.textContent='';
  var s=inp.value;if(!s||!/^\d{4}-\d{2}-\d{2}$/.test(s))return;
  var g=p(s);if(isNaN(g.getTime()))return;
- if(inp.min&&s<inp.min){g=p(inp.min);}if(inp.max&&s>inp.max){g=p(inp.max);}
+ if((inp.min&&s<inp.min)||(inp.max&&s>inp.max)){kq.textContent='Ngày '+dmy(g)+' nằm ngoài khoảng đã đối chiếu lịch nghỉ lễ (01/11/2026 đến 04/03/2027). Trang không tính hạn cho ngày này.';return;}
+ if(nghi(g)){kq.textContent='Ngày '+dmy(g)+' là '+(LE[k(g)]?'ngày nghỉ lễ ('+LE[k(g)]+')':THU[g.getUTCDay()])+', không phải ngày làm việc. Hãy chọn đúng ngày ghi trên phiếu tiếp nhận của cơ quan; trang không tự đổi sang ngày khác.';return;}
  var r=new Date(g);
  var ds=[{d:new Date(r),t:'recv',nh:'Ngày nhận'}],cur=new Date(r),dem=0;
  while(dem<7){cur=them(cur,1);

diff --git a/assets/css/site.css b/assets/css/site.css
@@ -560,3 +560,7 @@ dialog.lb::backdrop { background: var(--scrim); opacity: 0.78; }
 .gate__fig figcaption { margin-top: var(--s-2); font-size: var(--t-note); color: var(--muted); }
 /* Bản 5.4b: nhãn nút dài (có thời lượng video) phải xuống dòng được ở màn hình hẹp */
 @media (max-width: 400px) { .actions .btn { white-space: normal; text-align: center; padding: 10px var(--s-4); } }
+
+/* b4: hộp Xin biết trước không bị bóp ở màn hình rộng */
+@media (min-width: 960px) { .cta .biet { grid-column: 1 / span 7; } }
+.dem__msg { margin-top: var(--s-3); padding: var(--s-3) var(--s-4); border-left: 4px solid var(--accent-rule); background: var(--accent-soft); color: var(--ink); }
